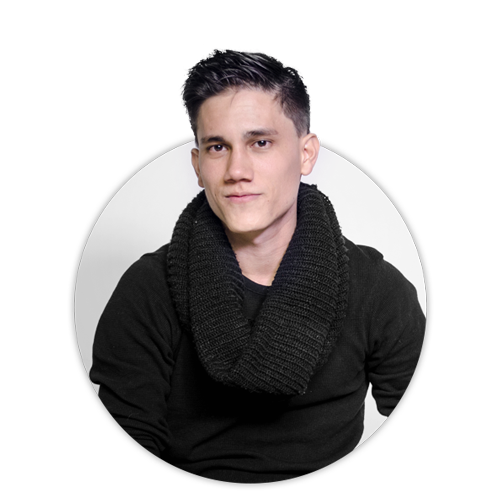
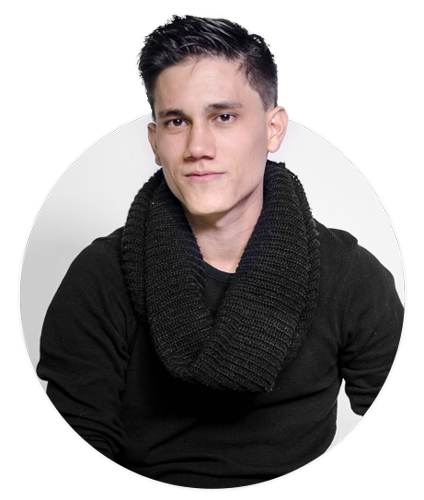
home and contact syle fixed

diff --git a/view.js b/view.js
@@ -47,7 +47,7 @@ let view = {
             <ul class="blackMenu">
                 <li><button class="btn-menu" value="0">Home</button></li>
                 <li><button class="btn-menu" value="34">About</button></li>
-                <li><button class="btn-menu" value="67">Portfolio</button></li>                    
+                <li><button class="btn-menu" value="67">Work</button></li>                    
                 <li><button class="btn-menu" value="100">Contact</button></li>
             </ul>
             
@@ -214,7 +214,7 @@ let view = {
         div.className = `page`;
         div.innerHTML = `
         <div class="sectionBlock">
-            <h1> Hi! I´m Jose </h1>
+            <h1> "Hola" I´m David </h1>
         </div>
         <div id="about-jose-photo">
             <img src="/about-jose.png">
@@ -331,22 +331,19 @@ let view = {
         div.className = `page`;
         div.innerHTML = `
      
-        <!--div class="thankYouBlock"-->
+        <div class="thankYouBlock">
             <h1> Thank you 
             <br> for wathing </h1>
             <br>
-            <p>
-            Did you enjoy my work? 
+            <p>Did you enjoy my work? 
             <br>
             Let me know if you think I could be part of 
             <br> your team during my internship in 2019
             </p>
-     
-     
-        <a id="email-contact" href="mailto:josedavidgm1995@gmail.com?Subject=Internship%202019" target="_top">
-        <h2>josedavidgm1995@gmail.com</h2></a>
-      
-      
+            <br>
+            <a id="email-contact" href="mailto:josedavidgm1995@gmail.com?Subject=Internship%202019" target="_top">
+            <h2>josedavidgm1995@gmail.com</h2></a>
+      </div>
        `;
 
         return div;
@@ -636,6 +633,9 @@ let view = {
     },
     //------------------------------------------------- Render single Page
     renderPage: function renderPage(n) {
+        document.body.scrollTop = 0;
+        document.documentElement.scrollTop = 0;
+        this.bodyElement.scrollTop = 0;
         this.setPageNumber(n);
         let p = document.querySelector(`.pagesContainer`);
         p.scrollTop = 0;

diff --git a/page-content-style.css b/page-content-style.css
@@ -77,6 +77,7 @@ body {
         height: 100%;
     }
     #home-message {
+        margin-top: 100px;
         max-width: 600px;
         margin-left: 300px;
     }
@@ -161,7 +162,7 @@ article {
 
 /*--------------------------------- About ----------------------*/
 .sectionBlock {
-
+    margin-top: 20px;
     margin-bottom: 30px;
     display: flex;
     justify-content: center;
@@ -185,7 +186,7 @@ article {
 #about-jose-photo img{
     width: 100%;
     height: 100%;
-    max-width: 500px;
+    max-width: 424px;
     max-height: 500px;
 }
 
@@ -226,7 +227,11 @@ article {
     justify-content: center;
     color: rgb(250, 250, 250);
 }
-
+.thankYouBlock{
+    display: flex;
+    flex-direction: column;
+    
+}
 #contactArticle p {
     text-align: center;
     font-size: 18px;
@@ -236,7 +241,7 @@ article {
 /*--------------------------------*/
 
 article h1 {
-    font-size: 60px;
+    font-size: 50px;
     text-align: center;
     font-family: 'Barlow', sans-serif;
 }

diff --git a/navegation-menu-style.css b/navegation-menu-style.css
@@ -54,15 +54,15 @@
   }
 
   #indicatorContainer {
-    width: 95%;
+    width: 93%;
   }
 
   #navigationMenuSlider {
-    width: 97%;
+    width: 90%;
   }
 
   #navigationMenuContainer button {
-    font-size: 14px;
+    font-size: 16px;
   }
 }
 
@@ -126,7 +126,7 @@
   padding: 0;
   width: 6px;
   height: 6px;
-  border: 1px solid rgb(200, 200, 200);
+  border: 1px solid rgba(100, 100, 100,0);
   background: transparent;
   border-radius: 10px;
 }

diff --git a/static-titles-style.css b/static-titles-style.css
@@ -127,7 +127,7 @@ a:active {
     list-style-type: none;
     padding: 0;
     margin-left: 0px;
-    margin-bottom: 80px;
+    margin-bottom: 50px;
     background-color: transparent;
     width: 10%;
 }
